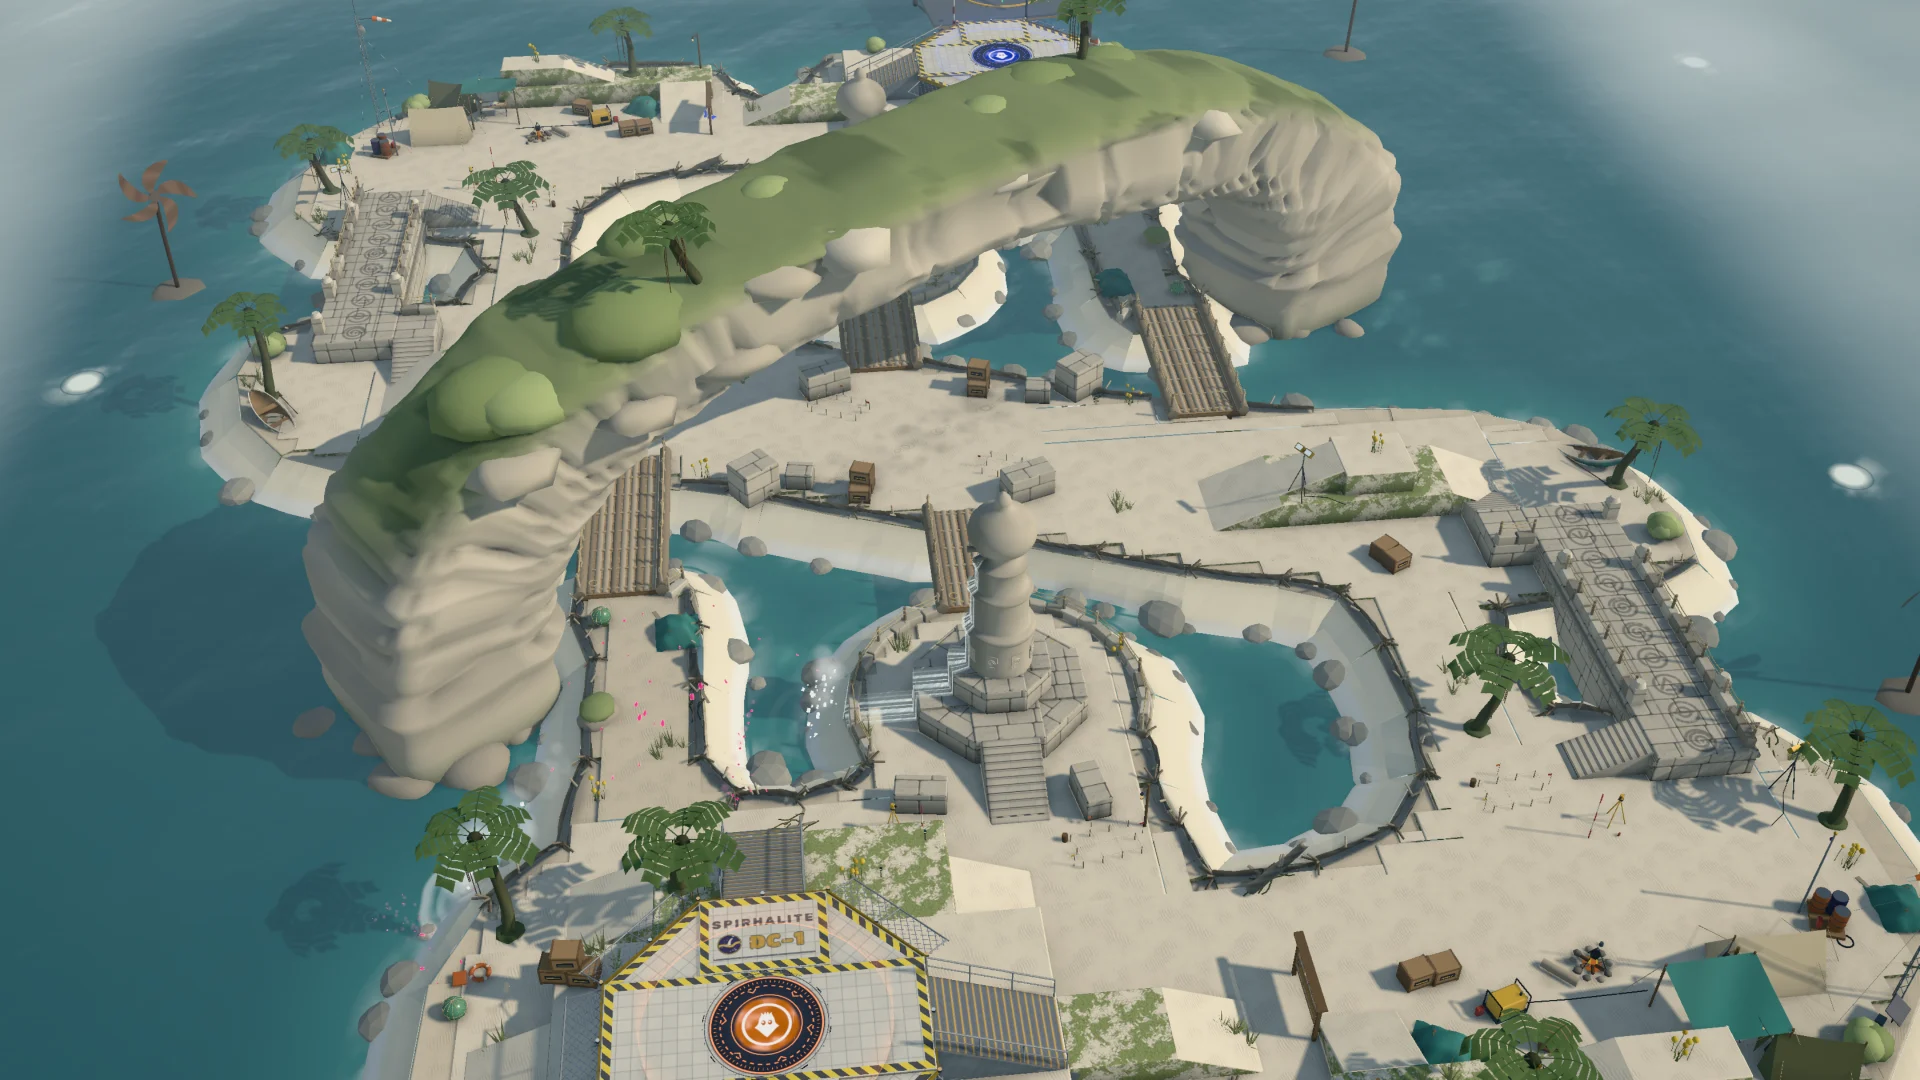
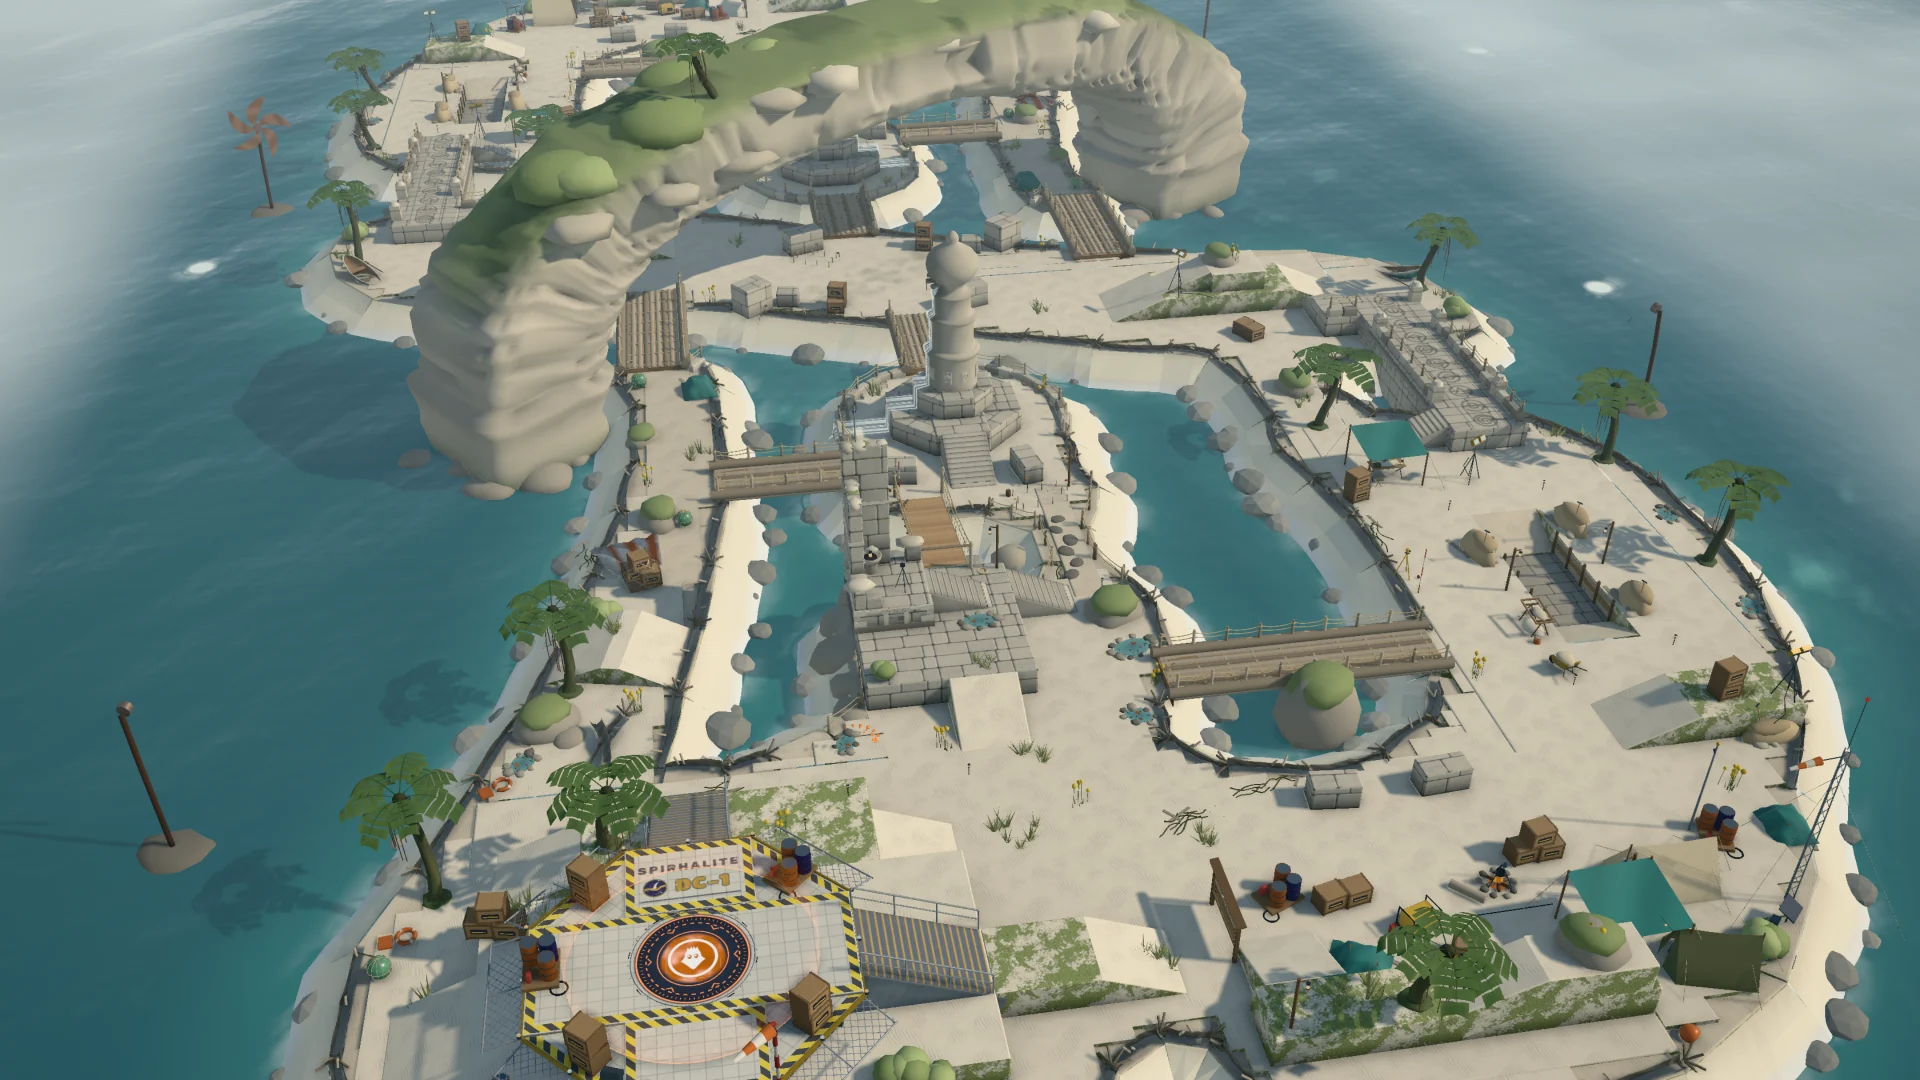
Spirhalite Islands, the stretch: final — kerb gaps closed on the new shores (the east bay's head, the east bay bridge's landings; the ford's rope carried round the tide-pool islet's corner), the spit's dune off its bay shore; AO lightmap rebaked (964 rows), stage art re-rendered from the new art cam

diff --git a/src/world/stages/spirhalite/props.js b/src/world/stages/spirhalite/props.js
@@ -246,7 +246,7 @@ const RAW = [
   { type: 'spirhalite_rock', pos: [18.4, 0, -41.7], rotY: 1.6, w: 0.8, h: 0.6, seed: 43, nocol: true },
   { type: 'spirhalite_rockpool', pos: [20.3, 0, -43.0], rotY: 0.9, w: 1.3, d: 0.9, seed: 19 },
   { type: 'spirhalite_float', pos: [13.2, 0, -26.4], rotY: 0, r: 0.4 },
-  { type: 'spirhalite_grass', pos: [16.4, 0.9, -36.2], n: 5, r: 0.6, seed: 41 },
+  { type: 'spirhalite_grass', pos: [17.0, 0.9, -36.2], n: 5, r: 0.6, seed: 41 },
   { type: 'spirhalite_pompoms', pos: [15.6, 0, -40.4], n: 6, seed: 41 },
   { type: 'spirhalite_kelp', pos: [17.9, 0, -27.8], rotY: 1.8, seed: 14, L: 1.5 },
   { type: 'spirhalite_driftwood', pos: [16.8, 0, -42.3], rotY: 1.15, L: 3.4, seed: 71, two: true },
@@ -347,14 +347,16 @@ for (const [a, b] of [
   ...pairs([[-32.6, -23.2], ...DIG_SEA, sh(-35.4, -31.4)]),
   ...pairs([TIDE_W[3], TIDE_W[4], ...DIG_LAGOON.slice(0, 3)]), ...pairs([...DIG_LAGOON.slice(4), [-17.8, -24.4]]),
   [[-6.58, -43.8], TIDE_W[3]], [DIG_LAGOON[2], [-18.4, -43.8]], [[-19.08, -40.2], DIG_LAGOON[4]],   // (parted for the dig bridge's landings, z −43.6 … −40.4)
-  [FORD_W[3], TIDE_W[0]], [TIDE_W[0], [-8.04, -40.2]],
+  [TIDE_W[0], [-8.04, -40.2]],
   [PILLAR_S[0], [0.1, -27.79]], [[2.7, -27.1], PILLAR_S[2]], [PILLAR_S[2], PILLAR_S[3]],   // (parted for the rope bridge's foot and the east bay's bridge)
   [[-1.5, -34.16], TIDE_E[6]],                                                                                   // (the notch's beach west of the shelf)
+  [sh(5.4, -22.4), TIDE_E[0]],                                                                                   // (the east bay's head, west of the old one)
+  [[10.72, -20.6], [10.84, -21.5]], [[10.94, -24.6], [11.25, -26.6]],                                           // (the spit's bay side either side of the east bay's bridge)
   ...pairs([...SPIT_BAY, sh(9.4, -22.5)]),   // (the spit's bay side from the east bay's bridge on)
   ...pairs([sh(19.0, -26.8), ...SPIT_SEA, [16.6, -24.4]]),
 ]) kerb(a, b, seedK++);
 for (const [a, b] of [
-  ...pairs([[-7.9, -26.2], ...FORD_W]), ...pairs([TIDE_E[6], ...FORD_E, PILLAR_S[0]]),
+  ...pairs([[-7.9, -26.2], ...FORD_W, TIDE_W[0]]), ...pairs([TIDE_E[6], ...FORD_E, PILLAR_S[0]]),   // (the ford's west rope carried on round the islet's north-west corner)
   ...pairs(TIDE_E.slice(0, 3)),
 ]) rope(a, b, seedK++);
 

diff --git a/src/world/stages/spirhalite/layout.js b/src/world/stages/spirhalite/layout.js
@@ -243,7 +243,7 @@ const SPIRHALITE = {
     O(-11.6, -50.4, 2.0, 1.1, 0, 1.1, -6, stone({ tag: 'fallen-drum' })),
 
     // ================= the spit's root (the stretch): a low dune along it
-    ...dune(16.2, -36.4, 4.2, 0.9, 76, { crest: 0.8 }),
+    ...dune(16.8, -36.4, 4.2, 0.9, 76, { crest: 0.8 }),
   ],
   // Zone Control: the sandbar under the arch; the pillar headland (Alpha's): the sand round the plinth and the plinth's
   // top (the tier above is out of the count), the tombolo to the steps' foot. ~100 m²; its floor's centroid (−1.5,

diff --git a/tools/botlab/jobs/stretch/spirhalite.md b/tools/botlab/jobs/stretch/spirhalite.md
@@ -1,0 +1,186 @@
+# Spirhalite Islands (`spirhalite`): the Long Stages stretch
+
+Branch `stretch-spirhalite` (from `new-stages` 0cd3945). Code: `src/world/stages/spirhalite/` — `outline.js` (the S and
+the stretch), `layout.js`, `props.js`, the new `props-slice.js`; `props-ruins.js` (the causeway's posts). Pictures and
+scratch scripts: `out/spirhalite/`.
+
+## The cut and Δ
+
+- **Δ = 22 m along the spawn axis** (mid → Alpha's pad (8.5, −36), 13° off −z): the shift is (5.06, −21.41)
+  (`outline.js` `STRETCH` / `SHIFT` / `sh(x, z)`). Alpha's pad moves from (8.5, −36) to (13.56, −57.41); the straight
+  spawn → mid distance from 37.0 to 59.0 m. (21 m first: the tower's detours came out 5 m short and spawn-mid at the
+  band's floor; 22 fixed both.)
+- **The cut** follows the S: everything on the **bottom stroke and the tail** moves as a unit — the camp islet (Deep
+  Cut's camp, its crest), the pinch, the helipad islet (the pad dune, the shoulder, the helipad, the helicopter's rear
+  pad), their shores, kerbs and dressing, the tower's goal. It runs just south of the side zone (the zone's south edge
+  at z −25.6, the shoulder's old north edge at −26), round the causeway's broken south end (−26.2) and the Arch spit's
+  root (−24.4). Everything north of it stays: the central sandbar and the Great Arch, both mid islets, the bend's
+  causeway and neck, the pillar islet (the side zone, unchanged, still 20.5 m from mid) and the Arch spit.
+- In code the base's pieces and placements are **written where they stood before** and wrapped in `moved([...])` (or
+  `sh(x, z)` for outline points), so the old plan still reads in the numbers. The slice's new shores are named
+  (`DIG_SEA`, `DIG_LAGOON`, `TIDE_E/W`, `FORD_E/W`, `PILLAR_S`, `SPIT_SEA/BAY`) and the shore kerbs are laid along the
+  same points.
+- **The S is kept**: each half's bowl is 22 m taller, so the stage now reads as two long lobes joined by the arch's
+  sandbar, the S still drawn by the band (middle stroke → bend → bottom stroke → the spit back up the lagoon's mouth).
+  Land 3552 → 5103 m² (+44 %, the bridges not counted); bounds ±37 × ±46.5 → ±37 × ±67.
+
+## The slice (each half, between the side zone and the base)
+
+**The tide-pool islet** (the concept's islet, in the bend of the S between the camp and the arch sandbar): a rock islet
+on a sand tombolo from the helipad islet, in the lagoon south of the pillar islet. On its rocks stands the watch-post's
+old stone terrace (the **shelf**, 1.3 m, 7.4 × 8.1 m) and on that the **ruined watch-post** (its floor at 2.5, broken
+parapets on the north and east, a blocked doorway and a band of glyph roundels, the old beacon bowl in the parapet's
+corner with Deep Cut's storm lantern in it — the post's light at dusk). The upper storey's north-east corner still
+stands as a **broken tower stub to 8.8 m** with an arched window and the expedition's pennant on top: the landmark,
+seen from mid past the cascade pillar (`out/spirhalite/mid-to-watchpost.jpg`). Rock pools on its west beach, on the
+shelf and by the bay head (glossy water, weed, anemones, a starfish), boulders along the shelf's foot at the water.
+**The strategic point** is the shelf and the post on it: every route through the centre crosses it or passes under it,
+it looks back at mid, the post's parapet is cover facing mid and the east bay, and it is one step from the base's
+front (the defenders re-form on the tombolo behind it).
+
+**Its crossings** — the concept's two ways across, from the pillar islet (the side zone):
+- the **rope bridge** over the notch, a plank walkway on sagging rope handrails (rails) that climbs from the pillar
+  islet's south beach straight onto the shelf (the high route, 1.3 m at the top);
+- the **sandbar ford** on the west, a 3 m neck of wet sand the tide runs over, with worn stepping stones and a rope on
+  driftwood stakes along both edges (the low route, onto the islet's beach under the shelf).
+Plus two **log bridges** (the expedition's, like the two at mid) that I added: the **dig bridge** across the lagoon
+from the bend's lane to the islet's west beach (12 m, a mossy boulder beside its middle), and the **east bay bridge**
+from the Arch spit's bay side to the pillar islet's south-east shore (7 m).
+
+**The dig** (the bend's new ground, between the causeway's broken end and the camp): Deep Cut follow the causeway
+under the sand — a 3.5 m trench, 1 m deep, its floor the old paving exposed, timber shoring on its walls, a ramp at
+each end; spoil heaps (dug, damp sand with shovels in them) and a sieve on trestles on the strips either side, a
+barrow, the **finds shelter** (tarp and table) at its north end by the causeway's landing, work lights aimed into it,
+lanterns and path lights; a spoil mound (1.3) at its south-west corner with crates and a work light on it; rock pools
+and a palm on its sea shore.
+
+**The spit's root**: the Arch spit carried 20 m on to the tail — a low dune, Deep Cut's **supply drop** (a pallet of
+crates in its cargo net, the orange-and-white parachute collapsed behind it), a mossy rock outcrop and a rock pool on
+the sea side, a palm, driftwood, a life ring.
+
+**The base's front**: blocks fallen from the watch-post dragged onto the camp islet's north beach, camp crates and fuel
+drums along the camp's edge, Deep Cut's cargo lashed round the helipad's rim (clear of the spawn circle and both stairs),
+grass and flowers on the tombolo.
+
+### Why these changes to the concept
+
+- **The islet is tied to the base by a tombolo**, not free in the lagoon: the defenders re-form on it (the brief's
+  spawn depth and back area), and the strategic point sits on the centre route every carrier takes, not beside it.
+- **The two crossings are different**: the rope bridge is the high road straight onto the shelf, the ford the low road
+  under it — attackers pick their height.
+- **The two log bridges** are the brief's "link across the slice" and the lead's "a lobe isn't a dead end": the stretch
+  put water between the side zone and the tail (the old zone had the tombolo's beaches to the east bay's head and the
+  lagoon's south shore); the east bay bridge gives the zone back its way in from the spit lane, the dig bridge gives the
+  bend's lane the strategic point without the long way round. In the first zones match after the stretch, before the
+  east bay bridge, one team never got into the other's side zone (shares A 3 / B 100); with it both teams took both
+  side zones (below).
+- **The dig**: one islet only fills the centre; the bend and the spit also grew 20 m. The dig carries the causeway's
+  story on under the sand, and the trench gives the tower a detour that is a place, not a loop drawn on sand.
+
+## Routes (Alpha's half; nav lengths from `out/spirhalite/routes-goal.js`, mid → the Bazookarp goal spot)
+
+| route | m | s (swim) |
+|---|---|---|
+| centre: pillar bridge → the pillar islet → the rope bridge → the shelf → the tombolo → the shoulder | 66.0 | 5.6 |
+| centre: … → the ford → the tide-pool islet → the shoulder | 66.9 | 5.7 |
+| east: the spit bridge → the Arch spit → its root → the shoulder's east slope | 82.8 | 7.0 |
+| west: the mid islet → the neck → the dig → the dig bridge → the tide-pool islet | 98.0 | 8.3 |
+| west, outer: the causeway → the dig → the camp islet → the pinch → the base | 124.9 | 10.6 |
+
+Cross links in the slice: the dig bridge (bend ↔ the islet), the east bay bridge (spit ↔ the pillar islet), the ford and
+the rope bridge (the pillar islet ↔ the islet), the camp islet's north beach (the dig ↔ the tombolo). The spawn keeps
+its two stairs (north onto the shoulder, west onto the arm) and the rim's drops.
+
+## Every mode
+
+- **Turf War**: bots 0 % stuck in both 180 s matches (longest episode 0.25 s); water splats 1–5 per 180 s
+  (`water-log.js`: sporadic, mostly fights on the old middle stroke's shores; the new shores' kerb gaps it found — the
+  east bay's head, the east bay bridge's landings, the ford's corner — are closed).
+- **Zone Control**: centre and side zones unchanged (the side zone round the cascade pillar, 20.5 m from mid). Final
+  full zones match: Bravo on time 74 vs 70, the side zone contested (sideA shares A 76 / B 45, A 100 / B 60,
+  A 93 / B 52), stuck 0.4 %, water 2. (Before the east bay bridge one match had a side zone nobody but its owner ever
+  entered, A 3 / B 100; see above.)
+- **Tower Command** (two checkpoints): the track keeps the user's drawing — along the central sandbar and the mid islet's
+  north shore, climb the causeway's sheer end (checkpoint 1 at its foot, unchanged at 37 m), along it, drop off its
+  broken end — then its detour loops: round the dig in three legs (out along the sea shore, back up **through the
+  trench** down its ramp and up the other, down the lagoon shore), along the camp islet's north beach between the
+  fallen blocks and the camp, up the tide-pool islet's west side and **climb onto the shelf**, along it under the
+  watch-post (**checkpoint 2 on the shelf**, the strategic point) and drop off its south face to the goal at the
+  islet's foot, 13.6 m from the pad. Square corners, two climbs and two drops (the ramps into and out of the trench are
+  inclines). **174.0 m / side** (target 176.2, −1.2 %), speed 1.101 → 2.175 m/s, **100 s to the goal**; tower-check:
+  0 holes, 0 issues, both rides a knockout with nobody knocked off. Tower match: Bravo (neutralised in overtime), counts 69 vs 24, best
+  pushes A 46.5 m / B 144.9 m, both teams cleared a checkpoint, stuck 0.4 %, 0 s stuck by the tower (an earlier match:
+  Alpha on time 25 vs 42, pushes 143.1 / 105.2 m). Pictures: `tower-plan.jpg` (the loops), `tower-rail-top.jpg`,
+  `top-tower.jpg`.
+- **Boss Battle**: HULLBREAKER's home ground 478 m² on the base islet, walked 34 m in 150 s, never stuck, never off
+  its floor, plays its moves (charges included) (`out/spirhalite/boss-check.js`).
+
+## Bazookarp notes (Alpha's half; Bravo's is the mirror)
+
+- **Checkpoint**: the tide-pool islet's shelf in front of the watch-post's steps, **(0.4, −39.8), y 1.3**. Contested:
+  it is the hinge of the centre route (mid → shelf 48.8 m), reached from the mid side by the rope bridge (onto the
+  shelf itself), the ford (under its west face) and the dig bridge (the islet's west beach), from the base side by the
+  tombolo and the shelf's south sand slope; the watch-post (2.5) and its parapet stand over it, the pillar islet and
+  the notch in front of it, the view runs back to mid past the cascade pillar. Tower Command's checkpoint 2 is on the
+  same shelf, 3 m east.
+- **Goal**: the shoulder in front of the helipad's north stair, **(9.8, −49.5), y 1.3** (8.8 m from the pad's centre,
+  below the deck's edge, in the defenders' view from the pad). Routes: from the tide-pool islet's tombolo up the
+  shoulder's west slope; from the spit's root up its east slope; from the camp islet and the pinch along the pad dune's
+  arm and round the north stair's foot.
+- **Routes mid → goal**: see the table above — 66.0 (rope bridge), 66.9 (ford), 82.8 (spit), 98.0 (dig bridge), 124.9 m
+  (causeway round the bend).
+- **High ground**: none a carrier can hide on out of reach. The heights are the shelf (1.3) and the watch-post's floor
+  (2.5, steps from the shelf, its 1.2 m faces jumpable), the spoil mound (1.3, a sand slope), the dunes and crests
+  (1.3 / 2.5, all with slopes), the pillar's plinth and tier (steps), the causeway (1.3, steps off its bastion), the
+  helipad (3.2, behind the spawn barrier). The stub, the parapets' tops, the tents, the tarps and the arch are `roof`.
+  If Bazookarp ever needs one, a "no-carrier" zone could cover the watch-post's floor (2.5) so a carrier can't sit on
+  the checkpoint's high ground — it's reachable, so I'd leave it open.
+
+## Numbers before (0cd3945) → after
+
+| | before | after |
+|---|---|---|
+| spawn → mid, nav (t0 / t1) | 3.88 / 4.55 s (avg 4.22) | 6.07 / 6.36 s (avg 6.22, × 1.47) |
+| straight spawn → mid | 37.0 m | 59.0 m |
+| tower track / side | 88.1 m, 1.101 m/s, cps at 37 / 62.6 m, 100 s | 174.0 m, 2.175 m/s, cps at 37 / 162.8 m, 100 s |
+| tower-check | clean | 0 holes, 0 issues, rides: knockout / knockout, 0 knocked off |
+| cover (≤ 5 m, `cover-map.js`) | 81.4 % of 3104 cells (largest open 17 m: the camp's crest) | 94.9 % of 4408 cells (largest open 14.2 m: the centre zone's sandbar) |
+| climb-audit | — | 265 climbs, 0 barred |
+| bots turf (stuck / water) | — | 0 % / 1–5 |
+| boss home ground | — | 478 m², walked 34 m, never stuck |
+| lightmap rows (8 ppm / 2048) | 654 | 964 (baked, hash 3adb5294) |
+| nav nodes / A* cap needed (size-budget) | 3201 / 3000 | 4445 / 6000 (the engine's cap: max(6000, 3 × nodes)) |
+| paint atlas | 27.6 ppm | 21.5 ppm |
+| perf at load (turf day, `top`) | 278 calls, 1.63 M tris, 3.26 ms cpuRender, loadMs 6181 | 297 calls (× 1.07), 1.82–1.84 M tris (× 1.13), 2.35–2.46 ms (the baseline ran under more load), loadMs 5683–5778 |
+
+## Pictures (`out/spirhalite/`)
+
+- Top before / after: `top-before.jpg`, `top-after.jpg` (dusk: `top-after-dusk.jpg`), the block-out `blockout-top.jpg`;
+  zones `top-zones.jpg`, tower `top-tower.jpg`, `tower-rail-top.jpg`, `tower-plan.jpg`.
+- The slice: from mid toward the watch-post `mid-to-watchpost.jpg` (dusk `mid-to-watchpost-dusk.jpg`), from the base
+  `slice-from-base.jpg`, the shelf `slice-shelf.jpg`, the dig bridge (the lagoon crossing) `slice-dig-bridge.jpg`, the
+  dig `slice-dig.jpg` (dusk `slice-dig-dusk.jpg`), the spit's root `slice-spit-root.jpg`, the east bay bridge
+  `slice-east-bay-bridge.jpg`.
+- Spawn: `spawn-play.jpg`, `spawn-play-dusk.jpg`, the helipad after the move `helipad.jpg`; the intro's first frame
+  `intro.jpg`; stage art `art-day.jpg`, `art-dusk.jpg` (also `assets/stages/spirhalite-{day,dusk}{,-sm}.webp`).
+- Cover maps: `cover-before.jpg`, `cover-after.jpg`.
+
+## Scripts (`out/spirhalite/`)
+
+- `boss-check.js` (the new-stages check, home ground ≥ 150 m²), `routes-goal.js` (the Bazookarp route lengths).
+- The new-stages scratch scripts (`tools/botlab/jobs/new-stages/out/spirhalite/`: `water-log.js`, `nav-check.js`,
+  `dump.mjs` …) still run on the stretched stage.
+
+## Shared files
+
+None changed. (Nothing needed: the stretch lives in the stage's own folder, its lightmap and its art.)
+
+## Known issues
+
+- spawn-mid lands at × 1.47, in the band but under the 6.3 s aim: the east bay bridge (added for the side zone) gave
+  Bravo a slightly shorter way in (6.66 → 6.36 s). Δ 23 would add ~0.1 s if the lead wants it higher.
+- The tower's second checkpoint sits at 162.8 of 174 m (93 %): the strategic point is the base's last stand, and the
+  detour loops (the dig) come before it. A checkpoint in the middle of the loops would split the long run after the
+  first one; I kept the brief's "on the slice's strategic point".
+- Water splats stay sporadic (1–5 a match), most on the old middle stroke's shores in fights.
+- The mist's far banks show as pale wedges in the corners of the high art shot (as before the stretch).
